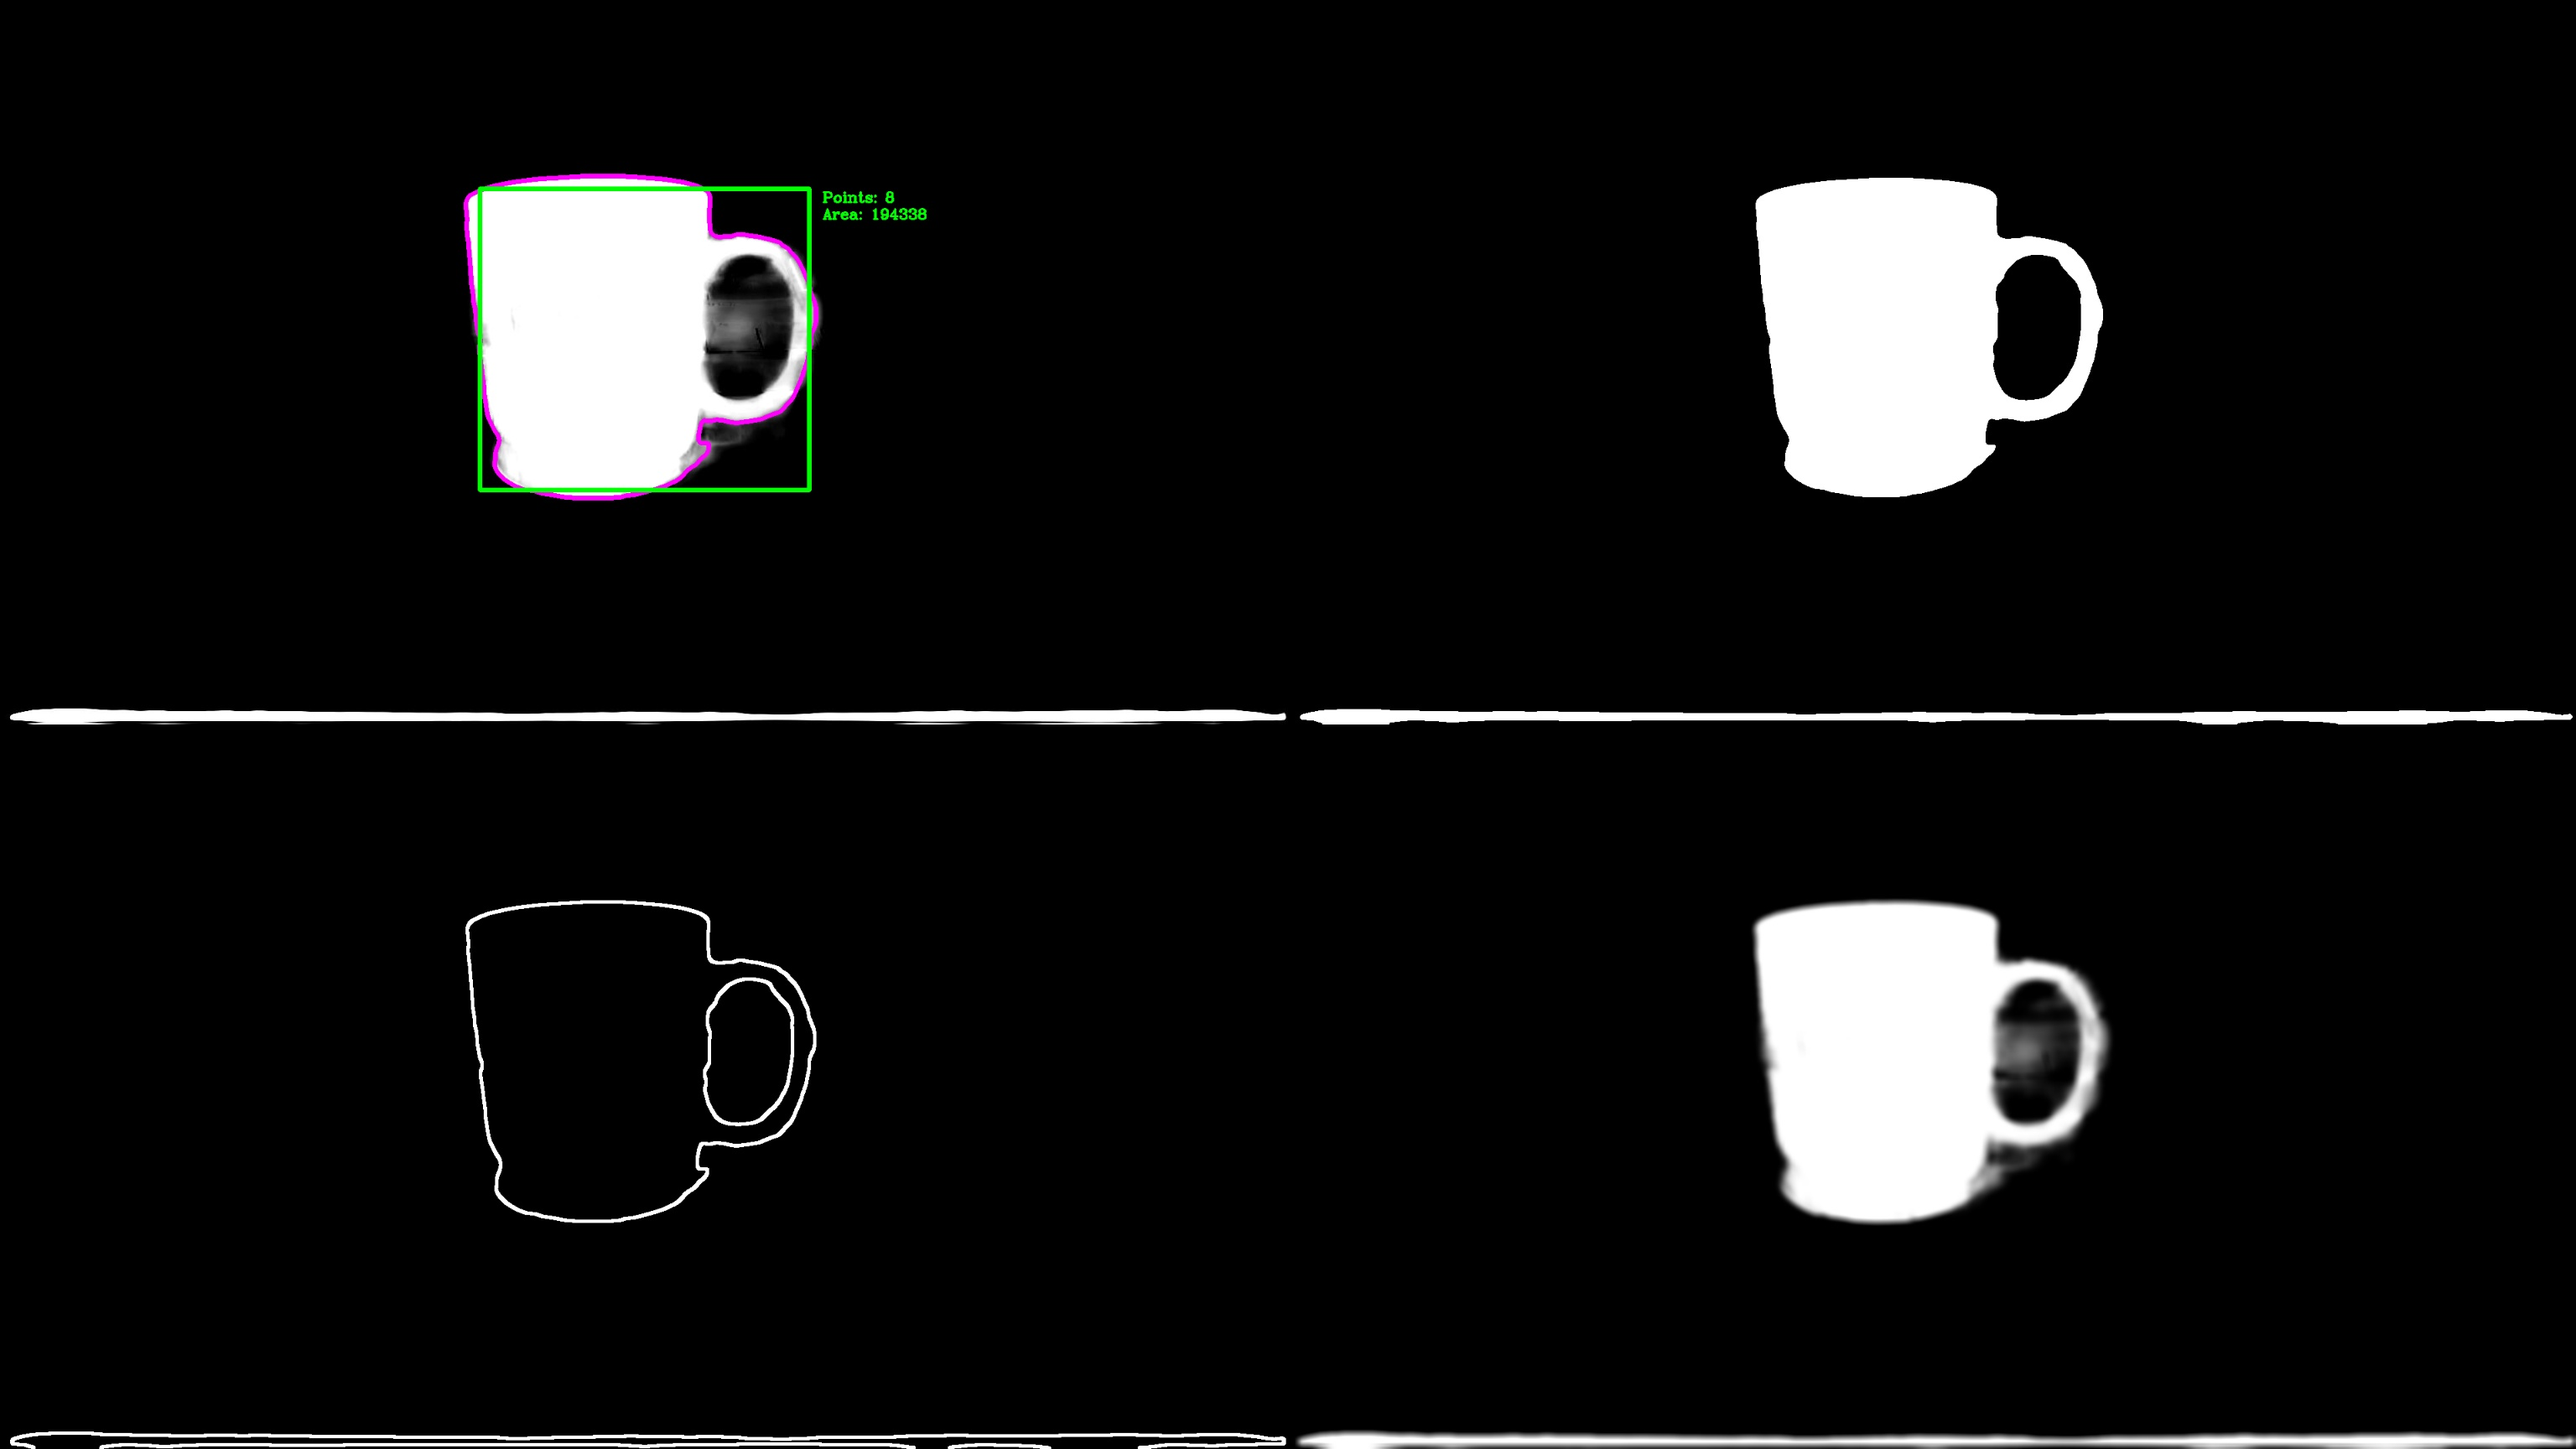
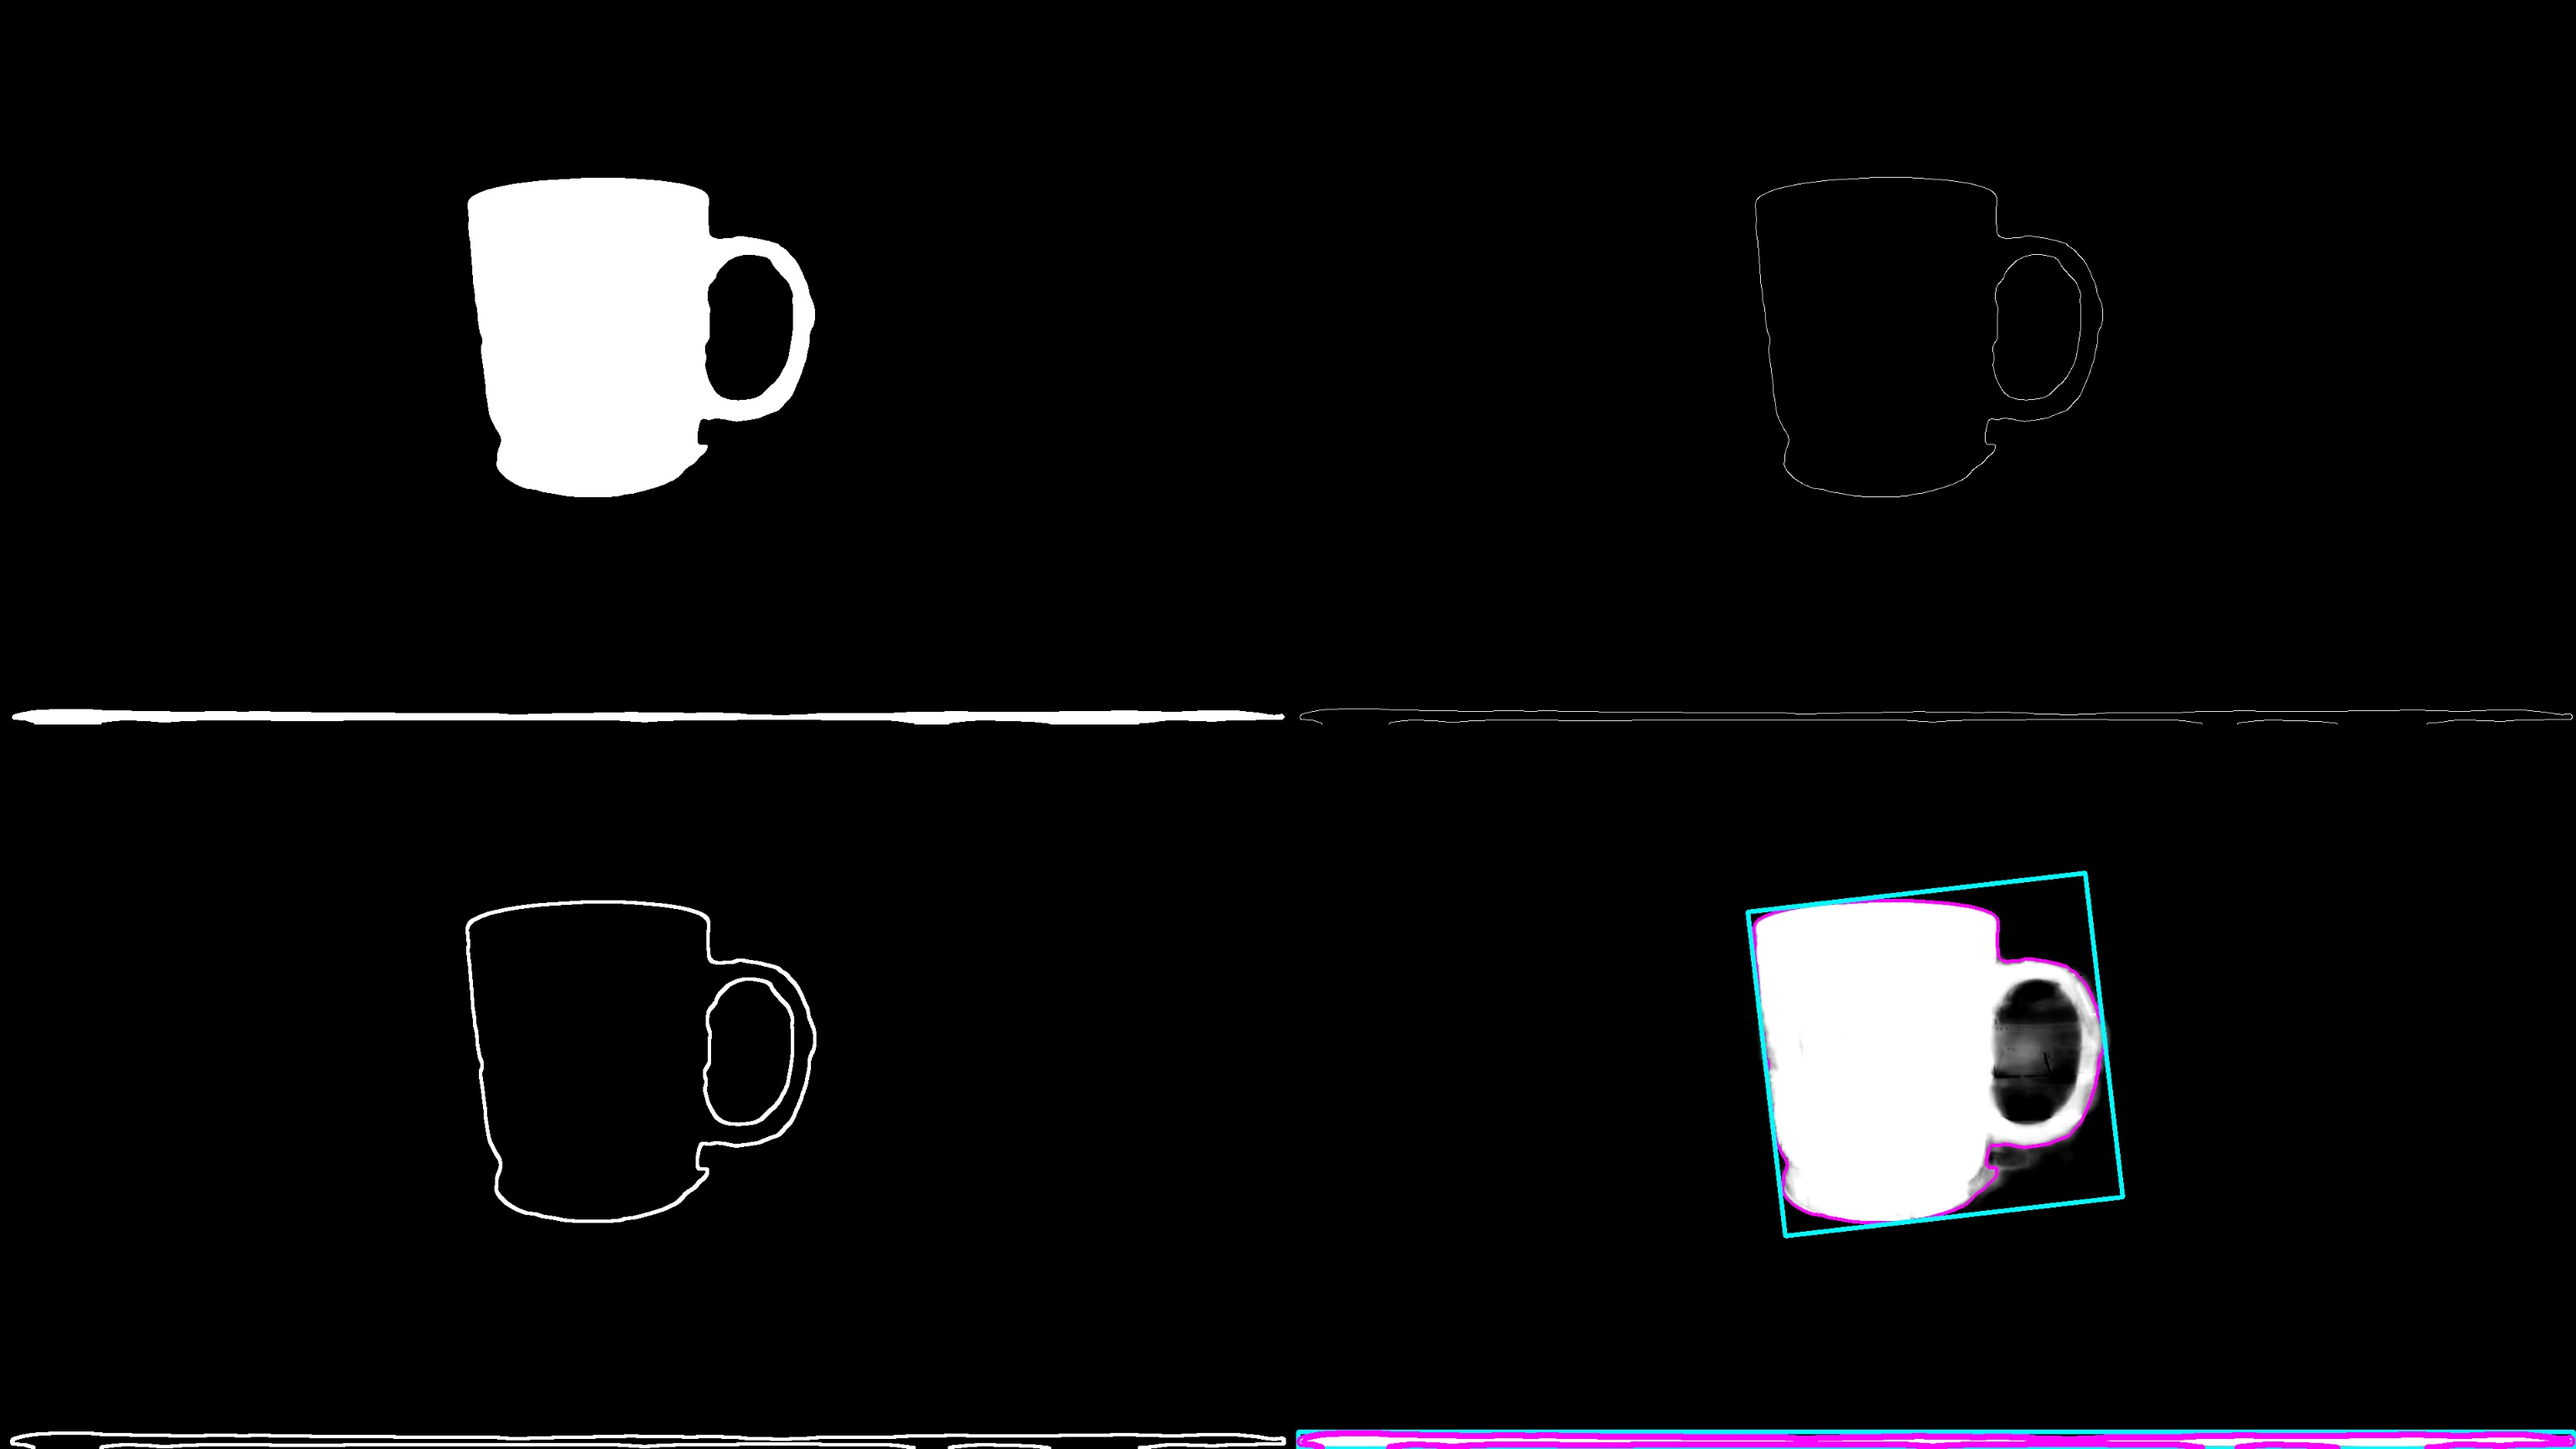
0119

diff --git a/realtime_shape_detection.py b/realtime_shape_detection.py
@@ -51,27 +51,32 @@ def stackImages(scale,imgArray):
     return ver
 
 def getContours(img,imgContour):
-    contours, hierarchy = cv2.findContours(img, cv2.RETR_EXTERNAL, cv2.CHAIN_APPROX_NONE)
-    #print(contours)
+    contours, hierarchy = cv2.findContours(img, cv2.RETR_EXTERNAL, cv2.CHAIN_APPROX_SIMPLE)
     for cnt in contours:
-        area = cv2.contourArea(cnt)
+        area = cv2.contourArea(cnt) #輪廓面積
         areaMin = cv2.getTrackbarPos("Area", "Parameters")
         if area > areaMin:
-            cv2.drawContours(imgContour, cnt, -1, (255, 0, 255), 5)
-            peri = cv2.arcLength(cnt, True)
+            cv2.drawContours(imgContour, contours, -1, (255, 0, 255), 3)
+            peri = cv2.arcLength(cnt, True) #輪廓周長
             approx = cv2.approxPolyDP(cnt, 0.02 * peri, True)
             print(len(approx))
-            x , y , w, h = cv2.boundingRect(approx)
-            cv2.rectangle(imgContour, (x , y ), (x + w , y + h ), (0, 255, 0), 5)
+            #x , y , w, h = cv2.minAreaRect(cnt) #外接矩陣
+            rect = cv2.minAreaRect(cnt)
+            box = np.int0(cv2.boxPoints(rect))
+            cv2.drawContours(imgContour, [box], 0, (255, 251, 0), 5)
+            #cv2.rectangle(imgContour, (x , y ), (x + w , y + h ), (0, 255, 0), 5)
 
-            cv2.putText(imgContour, "Points: " + str(len(approx)), (x + w + 20, y + 20), cv2.FONT_HERSHEY_COMPLEX, .7,
-                        (0, 255, 0), 2)
-            cv2.putText(imgContour, "Area: " + str(int(area)), (x + w + 20, y + 45), cv2.FONT_HERSHEY_COMPLEX, 0.7,
-                        (0, 255, 0), 2)
+            # cv2.putText(imgContour, "Points: " + str(len(approx)), (x + w + 20, y + 20), cv2.FONT_HERSHEY_COMPLEX, .7,
+            #             (0, 255, 0), 2)
+            # cv2.putText(imgContour, "Area: " + str(int(area)), (x + w + 20, y + 45), cv2.FONT_HERSHEY_COMPLEX, 0.7,
+            #             (0, 255, 0), 2)
 
 while True:
     img_path = "/home/user/matting/img_output/pha/pha2.jpg"
+    img2_path = "/home/user/matting/img_output/com/com2.png"
     img = cv2.imread(img_path)
+    img2 = cv2.imread(img2_path)
+
 
     #success, img = cap.read()
     imgContour = img.copy()
@@ -91,9 +96,11 @@ while True:
     imgDil = cv2.dilate(imgCanny, kernel, iterations=1)
 
     getContours(imgDil,imgContour)
-    # imgStack = stackImages(0.8,([img,imgCanny],[imgDil,imgContour]))
-    imgStack = stackImages(0.8,([imgContour,binary],[imgDil,imgGray]))
-    cv2.imwrite(savefile_path+"imgStack.jpg",imgStack)
+    imgStack = stackImages(0.8,([binary,imgCanny],[imgDil,imgContour]))
+    #imgStack = stackImages(0.8,([img2,img]))
+    #imgStack = stackImages(0.8,([imgContour,binary],[imgDil,imgGray]))
+    # imgStack = stackImages(0.6,([imgGray,imgContour],[imgCanny,getContours]))
+    cv2.imwrite(savefile_path+"imgStack1.jpg",imgStack)
     cv2.imshow("Result", imgStack)
 
     if cv2.waitKey(1) & 0xFF == ord('q'):
